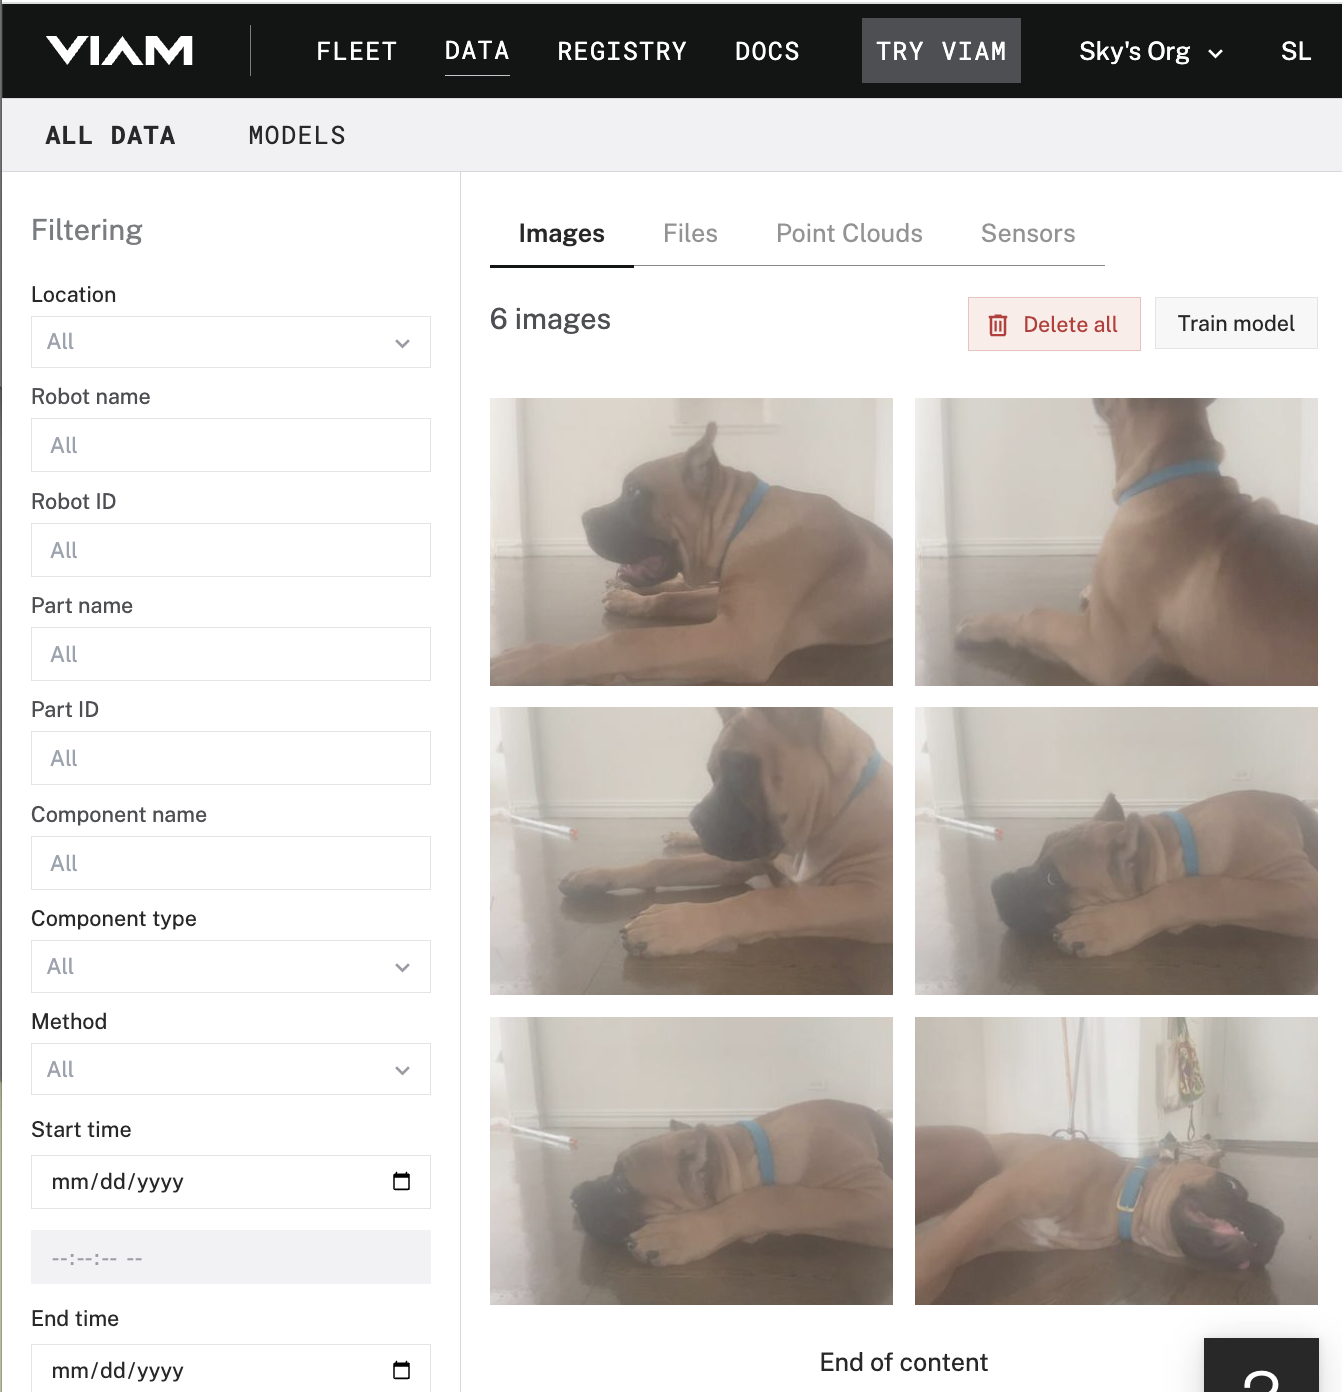
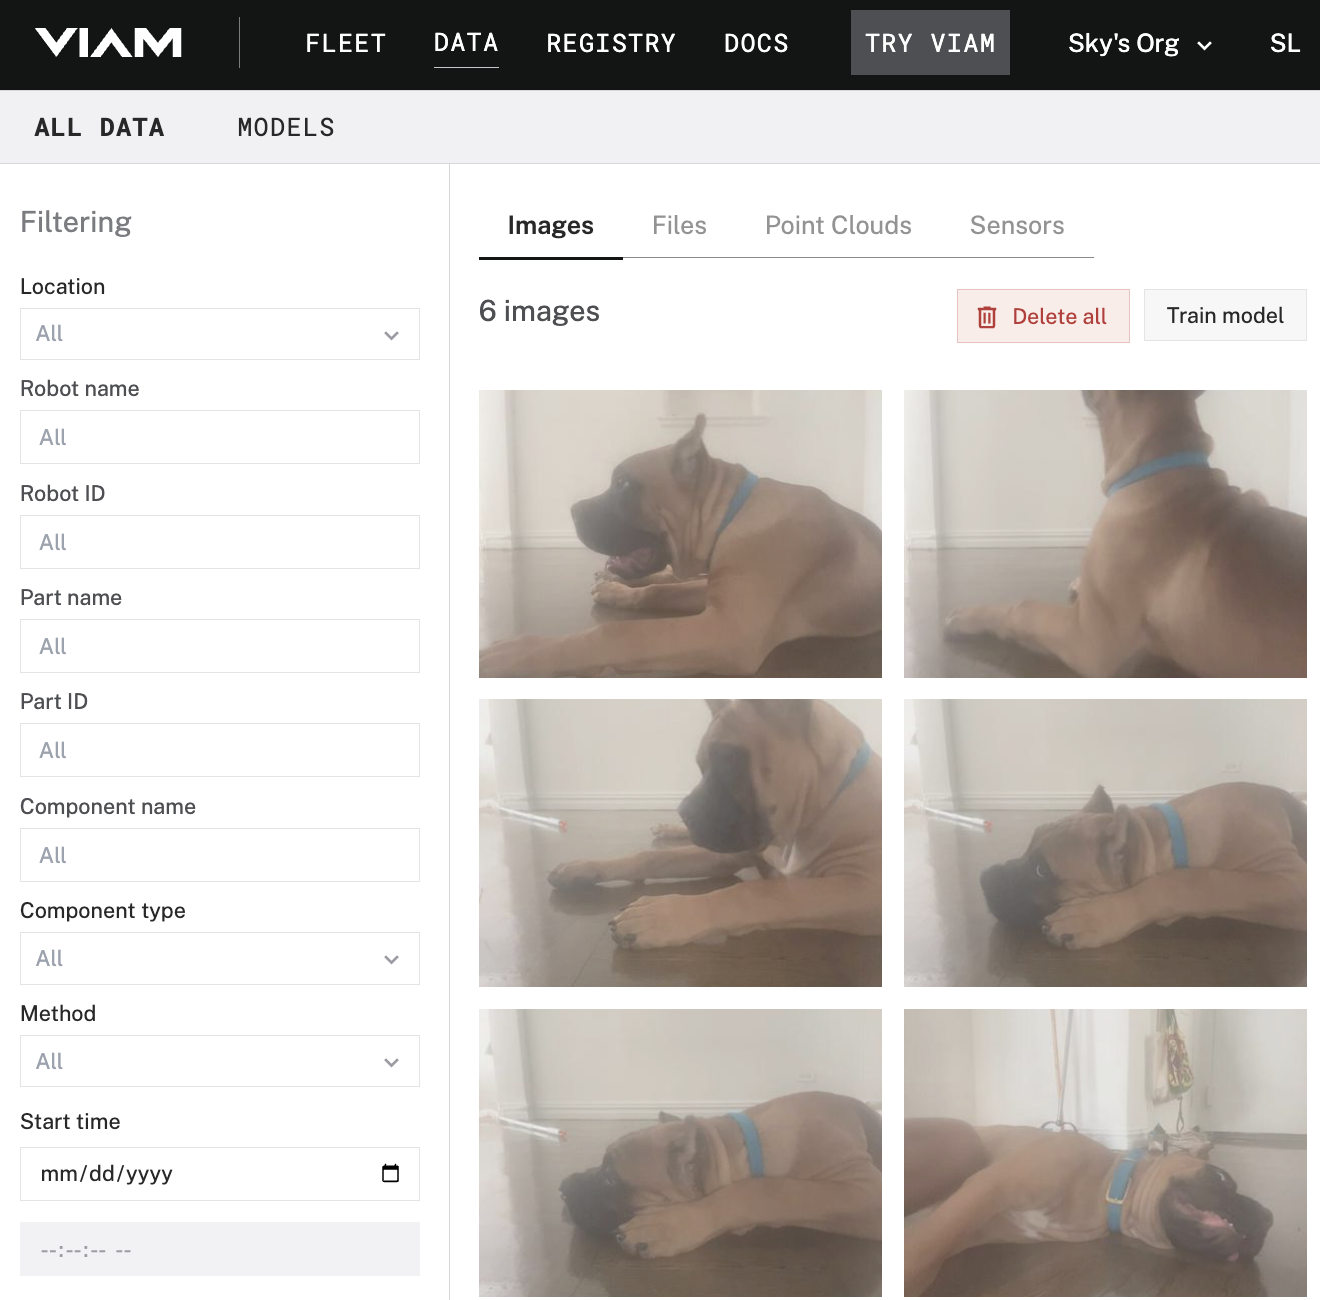
resize images

diff --git a/docs/tutorials/configure/pet-photographer.md b/docs/tutorials/configure/pet-photographer.md
@@ -27,6 +27,8 @@ Once you've positioned your configured camera in a location where your cat or do
 Then, before the images are stored in Viam's cloud, the color filter module will sift images and only store them if the color blue selected is present.
 You can follow these steps to enhance your data management whether you're configuring a camera to take pictures of your pet, or working with any robot equipped with a [camera](/components/camera/) component.
 
+{{<imgproc src="/tutorials/pet-photographer/data-example.png" resize="700x" declaredimensions=true alt="Dog in blue collar in the camera's live feed">}}
+
 While the color filter module you use in this tutorial selects image data from a camera, these same principles can be applied to various components, including for filtering [sensor](https://github.com/viam-labs/modular-filter-examples/tree/main/sensorfilter) data.
 The filter modular component allows you to selectively [store data](/services/data/#data-capture) when that data meets certain conditions you set.
 This can help you to avoid sifting through unwanted data captures and ensures that only the data you're interested in gets stored in Viam's cloud.
@@ -249,8 +251,6 @@ To test that your color filter camera is capturing and filtering images properly
 
 On the **colorfiltercam**'s panel, toggle **view colorfiltercam** to view your camera's live feed.
 Test the filter by getting a blue colored item and moving it in frame.
-
-![Dog in blue collar in the camera feed](/tutorials/pet-photographer/data-example.png)
 
 Then, go to the **Data** tab to view pictures that contain the blue colored item.
 
